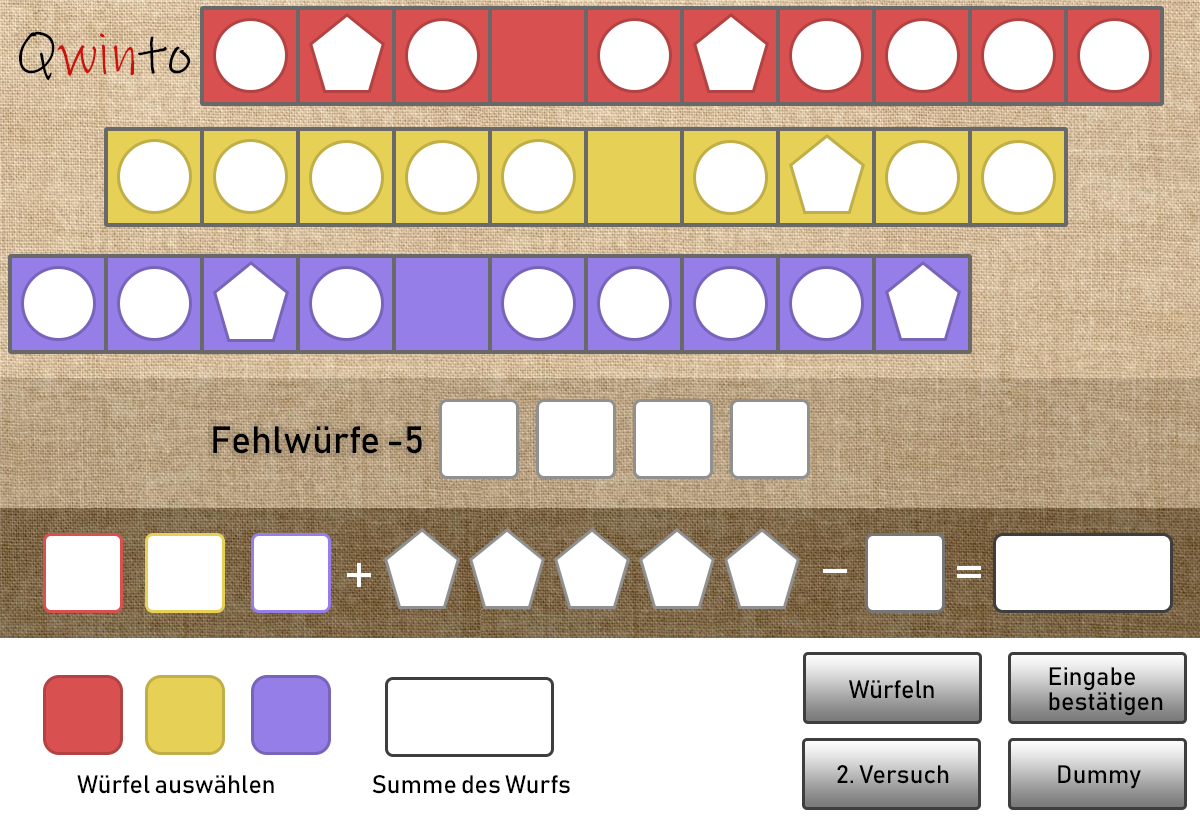
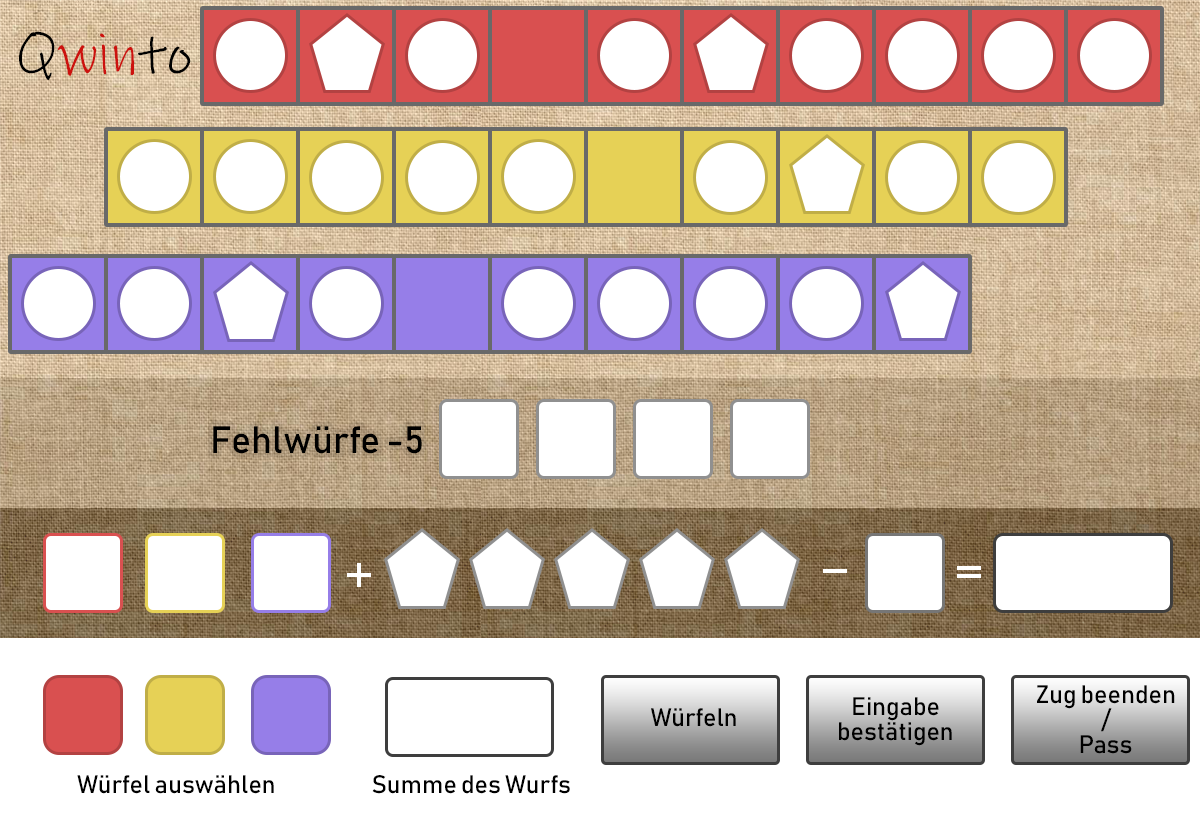
Spielfeld und Buttons angepasst

Changed region(s): [[0.4933, 0.7927, 1.0, 1.0]]

diff --git a/Qwinto/qwinto.html b/Qwinto/qwinto.html
@@ -126,6 +126,15 @@
    <canvas id="summe_wurf" width="90px" height="90px" 
    style="position: absolute; left: 431px; top: 679px; z-index: 1;"></canvas>
    
+   <!-- Buttons -->
+   <a href="#" onclick="roll_dice()"><canvas id="button_wuerfeln" width="179px" height="90px" 
+   style="position: absolute; left: 611px; top: 685px; z-index: 1;"></canvas></a>
+   <a href="#" onclick="confirmInput()"><canvas id="button_confirm" width="179px" height="90px" 
+   style="position: absolute; left: 816px; top: 685px; z-index: 1;"></canvas></a>
+   <a href="#" onclick="#"><canvas id="button_pass" width="179px" height="90px" 
+   style="position: absolute; left: 1021px; top: 685px; z-index: 1;"></canvas></a>
+   
+   
     <!-- Locked Fields -->
 	<canvas id="rot1_locked" width="75pxpx" height="75px" 
 	   style="position: absolute; left: 213px; top: 20px; z-index: 0;"></canvas>
@@ -189,12 +198,12 @@
 </div>
 
 <!-- Buttons -->
-<p>
+<!-- <p>
 <button class="game_button" onclick="roll_dice()">Wuerfeln</button>
 <button class="game_button" onclick="confirmInput()">Eingabe bestätigen</button>
 <button class="game_button" onClick="#">Zug beenden / Passen</button>
 </p>
-
+ -->
 <!-- Gegnerspielfeld -->
 <div class="tabs">
 
@@ -211,7 +220,7 @@
 </div>
 
 <!-- Bilder -->
-<img src="images/spielfeld1.png" id="spielfeld_img" style="display:none">
+<img src="images/spielfeld.png" id="spielfeld_img" style="display:none">
 
 <img src="images/1.png" id="1_img" style="display:none">
 <img src="images/2.png" id="2_img" style="display:none">
